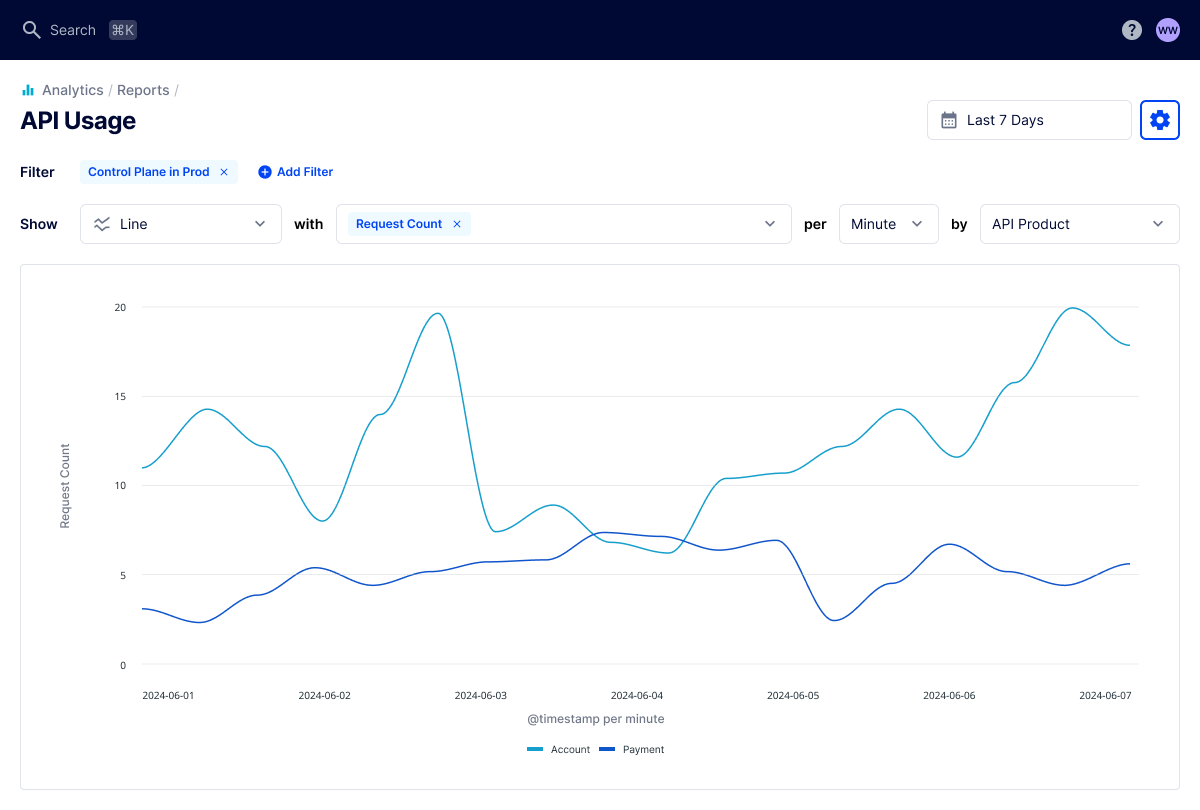
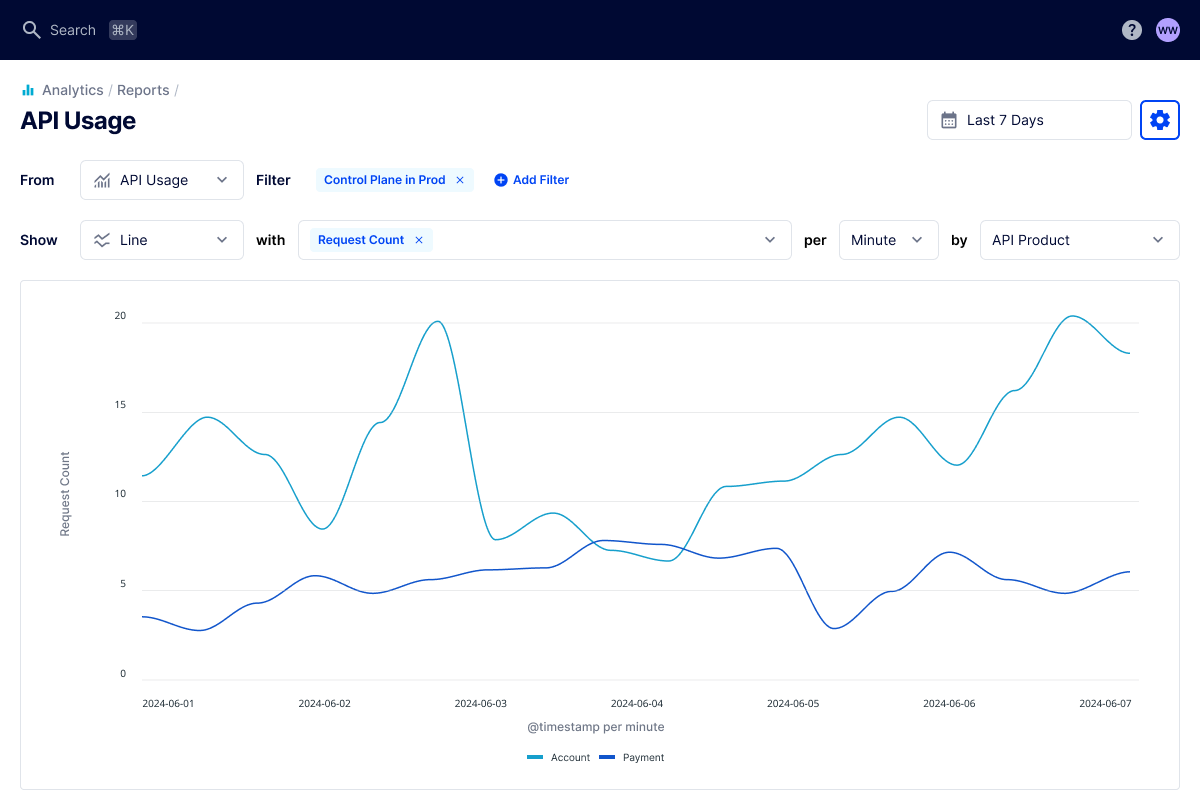
Advanced AI Analytics

diff --git a/app/konnect/analytics/explorer.md b/app/konnect/analytics/explorer.md
@@ -2,28 +2,33 @@
 title: Explorer
 ---
 
-Explorer is an intuitive web-based interface that displays API usage data gathered by {{site.konnect_short_name}} Analytics from your data plane nodes. You can use this tool to promptly diagnose performance issues or capture essential usage metrics. Explorer also provides the option to save the output as custom reports.
+Explorer is an intuitive web-based interface that displays API usage data gathered by {{site.konnect_short_name}} Analytics from your data plane nodes. You can use this tool to promptly diagnose performance issues, monitor LLM token consumption and costs, or capture essential usage metrics. Explorer also provides the option to save the output as custom reports.
 
 ![Explorer Dashboard](/assets/images/products/konnect/analytics/konnect-explorer-dashboard.png){:.image-border}
 
-To begin using Explorer, go to the **Analytics** {% konnect_icon analytics %} section and select [**Explorer**](https://cloud.konghq.com/analytics/explorer). 
+To begin using Explorer, go to the **Analytics** {% konnect_icon analytics %} section and select [**Explorer**](https://cloud.konghq.com/analytics/explorer). You can select from **API Usage** or **LLM Usage** from the dashboard options. 
+
 {% navtabs %}
 {% navtab Grouping and Filtering %}
 
-This is an overview of the different grouping and filtering categories available: 
+This is an overview of the different grouping and filtering categories available for either **API usage** or **LLM usage** : 
 
-* **None** 
-* **API Product**
-* **API Product Version** 
-* **Route** 
-* **Application**
-* **Status Code** (status codes can range from 100 to 599)
-* **Status Code Group** (1XX, 2XX, 3XX, 4XX, and 5XX)
-* **Control Plane**
-* **Control Plane Group**
-* **Data Plane Node** 
-* **Gateway Services** 
-* **Consumer** 
+| **API Usage**                                                    | **LLM Usage**                                                 |
+|-------------------------------------------------------------------|---------------------------------------------------------------|
+| **None**                                                          | **Provider**                                                  |
+| **API Product**                                                   | **Request Model**                                             |
+| **API Product Version**                                           | **Response Model**                                            |
+| **Route**                                                         | **Cache Status**                                              |
+| **Application**                                                   | **Embeddings Provider**                                       |
+| **Status Code**                                                   | **Embeddings Name**                                           |
+| **Status Code Group**                                             | **Control Plane**                                             |
+| **Control Plane**                                                 | **Control Plane Group**                                       |
+| **Control Plane Group**                                           | **Route**                                                     |
+| **Data Plane Node**                                               | **Consumer**                                                  |
+| **Gateway Services**                                              | **Application**                                               |
+| **Consumer**                                                      |                                                               |
+
+
 {% endnavtab %}
 {% navtab Metrics %}
 

diff --git a/app/konnect/analytics/index.md b/app/konnect/analytics/index.md
@@ -33,7 +33,20 @@ You can use the following table to help you determine which analytics tools are 
 | Communicate insights across teams or departments and share important KPIs. | [Custom reports](/konnect/analytics/custom-reports/) |
 | Understand user behavior or pin point where issues occur. See detailed information about each individual request made to your APIs. | [Requests](/konnect/analytics/api-requests/)  |
 | Manage Analytics cost for individual control planes| [Data ingestion](/konnect/analytics/#data-ingestion) |
+| Understand LLM usage, tokens and costs | [Explorer](/konnect/analytics/explorer/) | 
 
+
+## LLM usage reporting
+
+Advanced Analytics allows you to monitor and optimize your LLM usage by providing detailed insights into objects such as token consumption, costs, and latency. 
+
+With LLM usage reporting, you can:
+
+* Track token consumption: MOnitor the number of tokens processed by the different LLM models you have configured. 
+* Understand costs: Gain visibility into the costs associated with your LLM providers. 
+* Measure Latency: Analyze the latency involved in processing LLM requests. 
+
+To use this feature, navigate to the [Explorer dashboard](https://cloud.konghq.com/us/analytics/explorer) and switch between API usage and LLM usage using the new dataset dropdown. Metrics and groupings will dynamically adjust based on the selected dataset. 
 
 ### Charts and limitations
 

diff --git a/app/konnect/analytics/use-cases.md b/app/konnect/analytics/use-cases.md
@@ -28,6 +28,7 @@ To build a report that displays the total number of requests across all of your 
 
 * **Name**:  API usage (last 30 days)
 * **Date/Time**: Last 30 days
+* **From**: API usage
 * **Show**: Horizontal Bar
 * **With**: Request Count
 * **By**: API Product 
@@ -58,6 +59,7 @@ Set the following options in the UI:
 
 * **Name**: Daily Accounts API Usage (last 30 days)
 * **Date/Time**: Last 30 days
+* **From**: API usage
 * **Show**: Line
 * **With**: Request Count
 * **And**: Day
@@ -101,6 +103,7 @@ To configure the {{site.konnect_saas}} to create a look back report of total tra
 
 * **Name**: API Usage by Application (last 30 days)
 * **Date/Time**: Last 30 days
+* **From**: API usage
 * **Show**: Vertical Bar
 * **With**: Request Count
 * **By**: API Product
@@ -126,6 +129,7 @@ Your company determines that it is critical that payments are processed quickly 
 
 * **Name**: Payment API - Latency (last 30 days)
 * **Date/Time**: Last 30 days
+* **From**: API usage
 * **Show**: Line
 * **With**: Response Latency (p99)
 * **Per**: Day
